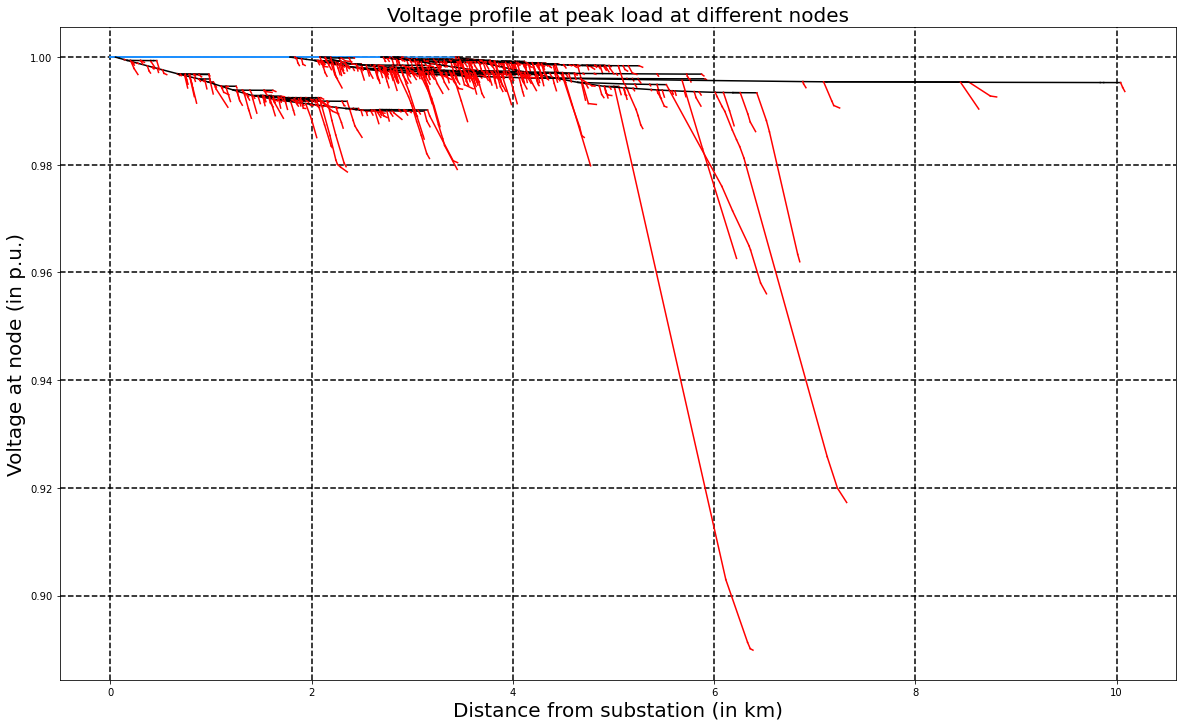
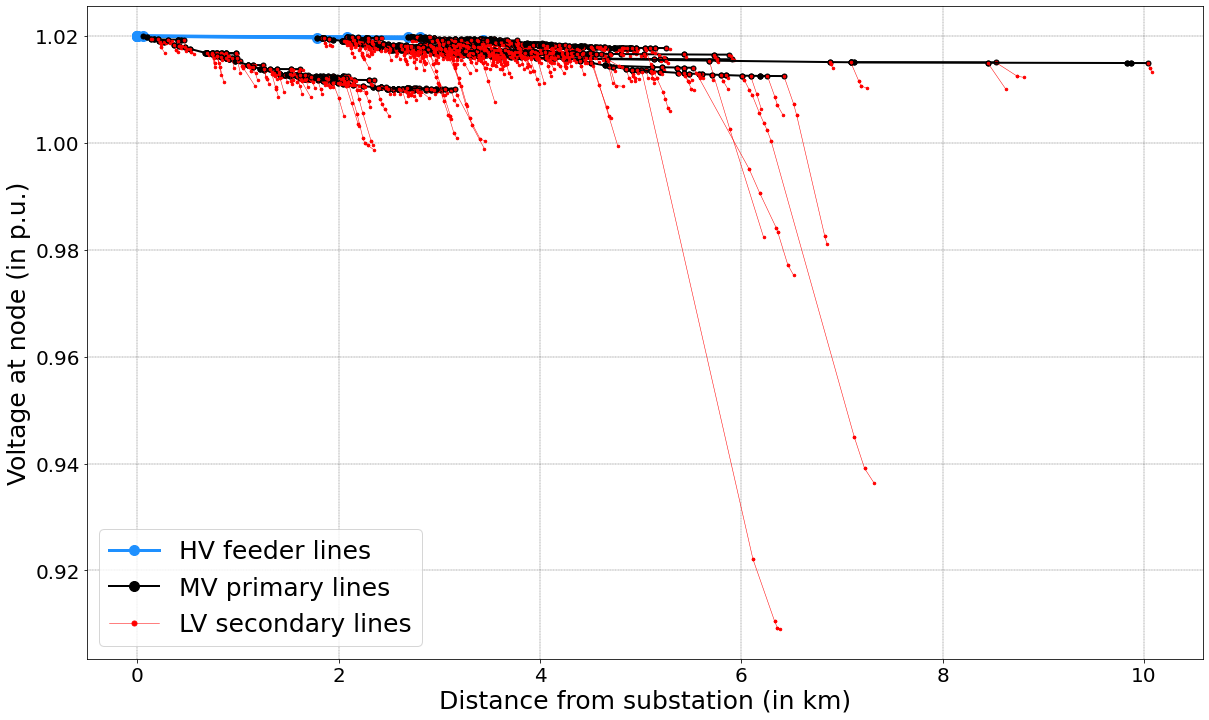
updated voltage variation codes

diff --git a/primnet/test-distnw-2.3.py b/primnet/test-distnw-2.3.py
@@ -32,33 +32,72 @@ sublist = [121143, 121144, 147793, 148717, 148718, 148719, 148720, 148721, 14872
        150727, 150728]
 
 
-#%% Get voltage tree
+#%% Plot variation in voltage
 import matplotlib.pyplot as plt
+from matplotlib.ticker import PercentFormatter
+from matplotlib.lines import Line2D
+import numpy as np
+
+# sublist = [121144]
 
 for sub in sublist[1:]:
     dist = GetDistNet(distpath,sub)
-    powerflow(dist)
+    powerflow(dist,v0=1.02)
     volt = {n:dist.nodes[n]['voltage'] for n in dist}
     reach = {n:1e-3*nx.shortest_path_length(dist,sub,n,weight='length') for n in dist}
+    vlist = [dist.nodes[n]['voltage'] for n in dist]
+    N = dist.number_of_nodes()
     
-    fig = plt.figure(figsize=(20,12))
-    ax = fig.add_subplot(111)
-    for e in dist.edges:
-        xpt = [reach[e[0]],reach[e[1]]]
-        ypt = [volt[e[0]],volt[e[1]]]
-        if dist.edges[e]['label']=='E':
-            ax.plot(xpt,ypt,color='dodgerblue',label="feeder lines")
-        elif dist.edges[e]['label']=='P':
-            ax.plot(xpt,ypt,color='black',label="primary lines")
-        else:
-            ax.plot(xpt,ypt,color='red',label="secondary lines")
-    
-    ax.set_xlabel("Distance from substation (in km)",fontsize=20)
-    ax.set_ylabel("Voltage at node (in p.u.)",fontsize=20)
-    ax.set_title("Voltage profile at peak load at different nodes",fontsize=20)
-    ax.grid(color='black',linestyle='dashed',linewidth=1.5)
-    fig.savefig("{}{}.png".format(figpath,str(sub)+'-voltage-profile'),
+    # Voltage Histogram
+    fig1 = plt.figure(figsize=(20,12))
+    ax1 = fig1.add_subplot(111)
+    ax1.hist(vlist,bins=50,weights=np.ones(N)/N,color='royalblue',edgecolor='black')
+    ax1.set_xlim(left=0.95,right=1.05)
+    ax1.yaxis.set_major_formatter(PercentFormatter(1))
+    ax1.set_xlabel("Node voltage (in p.u.)",fontsize=25)
+    ax1.set_ylabel("Percentage of nodes",fontsize=25)
+    ax1.tick_params(axis="x", labelsize=20)
+    ax1.tick_params(axis="y", labelsize=20)
+    # ax1.grid(color='black',linestyle='dashed',linewidth=0.8)
+    fig1.savefig("{}{}.png".format(figpath,str(sub)+'-voltage-hist'),
                 bbox_inches='tight')
+    
+    # Voltage tree
+    # fig2 = plt.figure(figsize=(20,12))
+    # ax2 = fig2.add_subplot(111)
+    # for e in dist.edges:
+    #     xpt = [reach[e[0]],reach[e[1]]]
+    #     ypt = [volt[e[0]],volt[e[1]]]
+    #     if dist.edges[e]['label']=='E':
+    #         ax2.plot(xpt,ypt,color='dodgerblue',
+    #                  marker='o',markersize=10.0,linewidth=3.0)
+    #     elif dist.edges[e]['label']=='P':
+    #         ax2.plot(xpt,ypt,color='black',
+    #                  marker='o',markersize=5.0,linewidth=2.0)
+    #     else:
+    #         ax2.plot(xpt,ypt,color='red',
+    #                  marker='o',markersize=2.5,linewidth=0.5)
+    
+    # ax2.set_xlabel("Distance from substation (in km)",fontsize=25)
+    # ax2.set_ylabel("Voltage at node (in p.u.)",fontsize=25)
+    # ax2.grid(color='black',linestyle='dashed',linewidth=0.3)
+    
+    # ax2.tick_params(axis="x", labelsize=20)
+    # ax2.tick_params(axis="y", labelsize=20)
+    
+    # # Legends
+    # leghands = [Line2D([0], [0], color='dodgerblue', marker='o',markersize=10,
+    #                    label='HV feeder lines',linewidth=3.0),
+    #             Line2D([0], [0], color='black', linewidth=2.0,
+    #                marker='o',markersize=10,label='MV primary lines'),
+    #             Line2D([0], [0], color='red', linewidth=0.5,
+    #                marker='o',markersize=5,label='LV secondary lines')]
+    # ax2.legend(handles=leghands,loc='lower left',ncol=1,prop={'size': 25})
+    
+    # fig2.savefig("{}{}.png".format(figpath,str(sub)+'-voltage-profile'),
+    #             bbox_inches='tight')
+    
+    
 sys.exit(0)
 
 #%% Catalogue of distribution lines

diff --git a/libs/pyMiscUtilslib.py b/libs/pyMiscUtilslib.py
@@ -101,10 +101,18 @@ def get_secnet(graph,secpath,homepath):
             graph.edges[e]['x'] = 0.34960/57.6 * graph.edges[e]['length']
     return graph
 
-def powerflow(graph):
+def powerflow(graph,v0=1.0):
     """
     Checks power flow solution and save dictionary of voltages.
     """
+    # Pre-processing to rectify incorrect code
+    hv_lines = [e for e in graph.edges if graph.edges[e]['label']=='E']
+    for e in hv_lines:
+        length = graph.edges[e]['length']
+        graph.edges[e]['r'] = (0.0822/363000)*length*1e-3
+        graph.edges[e]['x'] = (0.0964/363000)*length*1e-3
+    
+    # Main function begins here
     A = nx.incidence_matrix(graph,nodelist=list(graph.nodes()),
                             edgelist=list(graph.edges()),oriented=True).toarray()
     
@@ -128,11 +136,11 @@ def powerflow(graph):
     # Voltages and flows
     v = np.matmul(np.linalg.inv(G),p)
     f = np.matmul(np.linalg.inv(A[node_ind,:]),p)
-    voltage = {n:1.0-v[i] for i,n in enumerate(nodelist)}
+    voltage = {n:v0-v[i] for i,n in enumerate(nodelist)}
     flows = {e:log(abs(f[i])) for i,e in enumerate(edgelist)}
     subnodes = [node for node in list(graph.nodes()) \
                 if graph.nodes[node]['label'] == 'S']
-    for s in subnodes: voltage[s] = 1.0
+    for s in subnodes: voltage[s] = v0
     nx.set_node_attributes(graph,voltage,'voltage')
     nx.set_edge_attributes(graph,flows,'flow')
     return
@@ -186,7 +194,7 @@ def assign_linetype(graph):
                 r = 0.0822/39690; x = 0.0964/39690
         else:
             edge_name[e] = 'OH_Penguin'
-            r = 1e-10; x = 1e-10
+            r = 0.0822/363000; x = 0.0964/363000
         
         # Assign new resitance and reactance
         graph.edges[e]['r'] = r * graph.edges[e]['length'] * 1e-3
